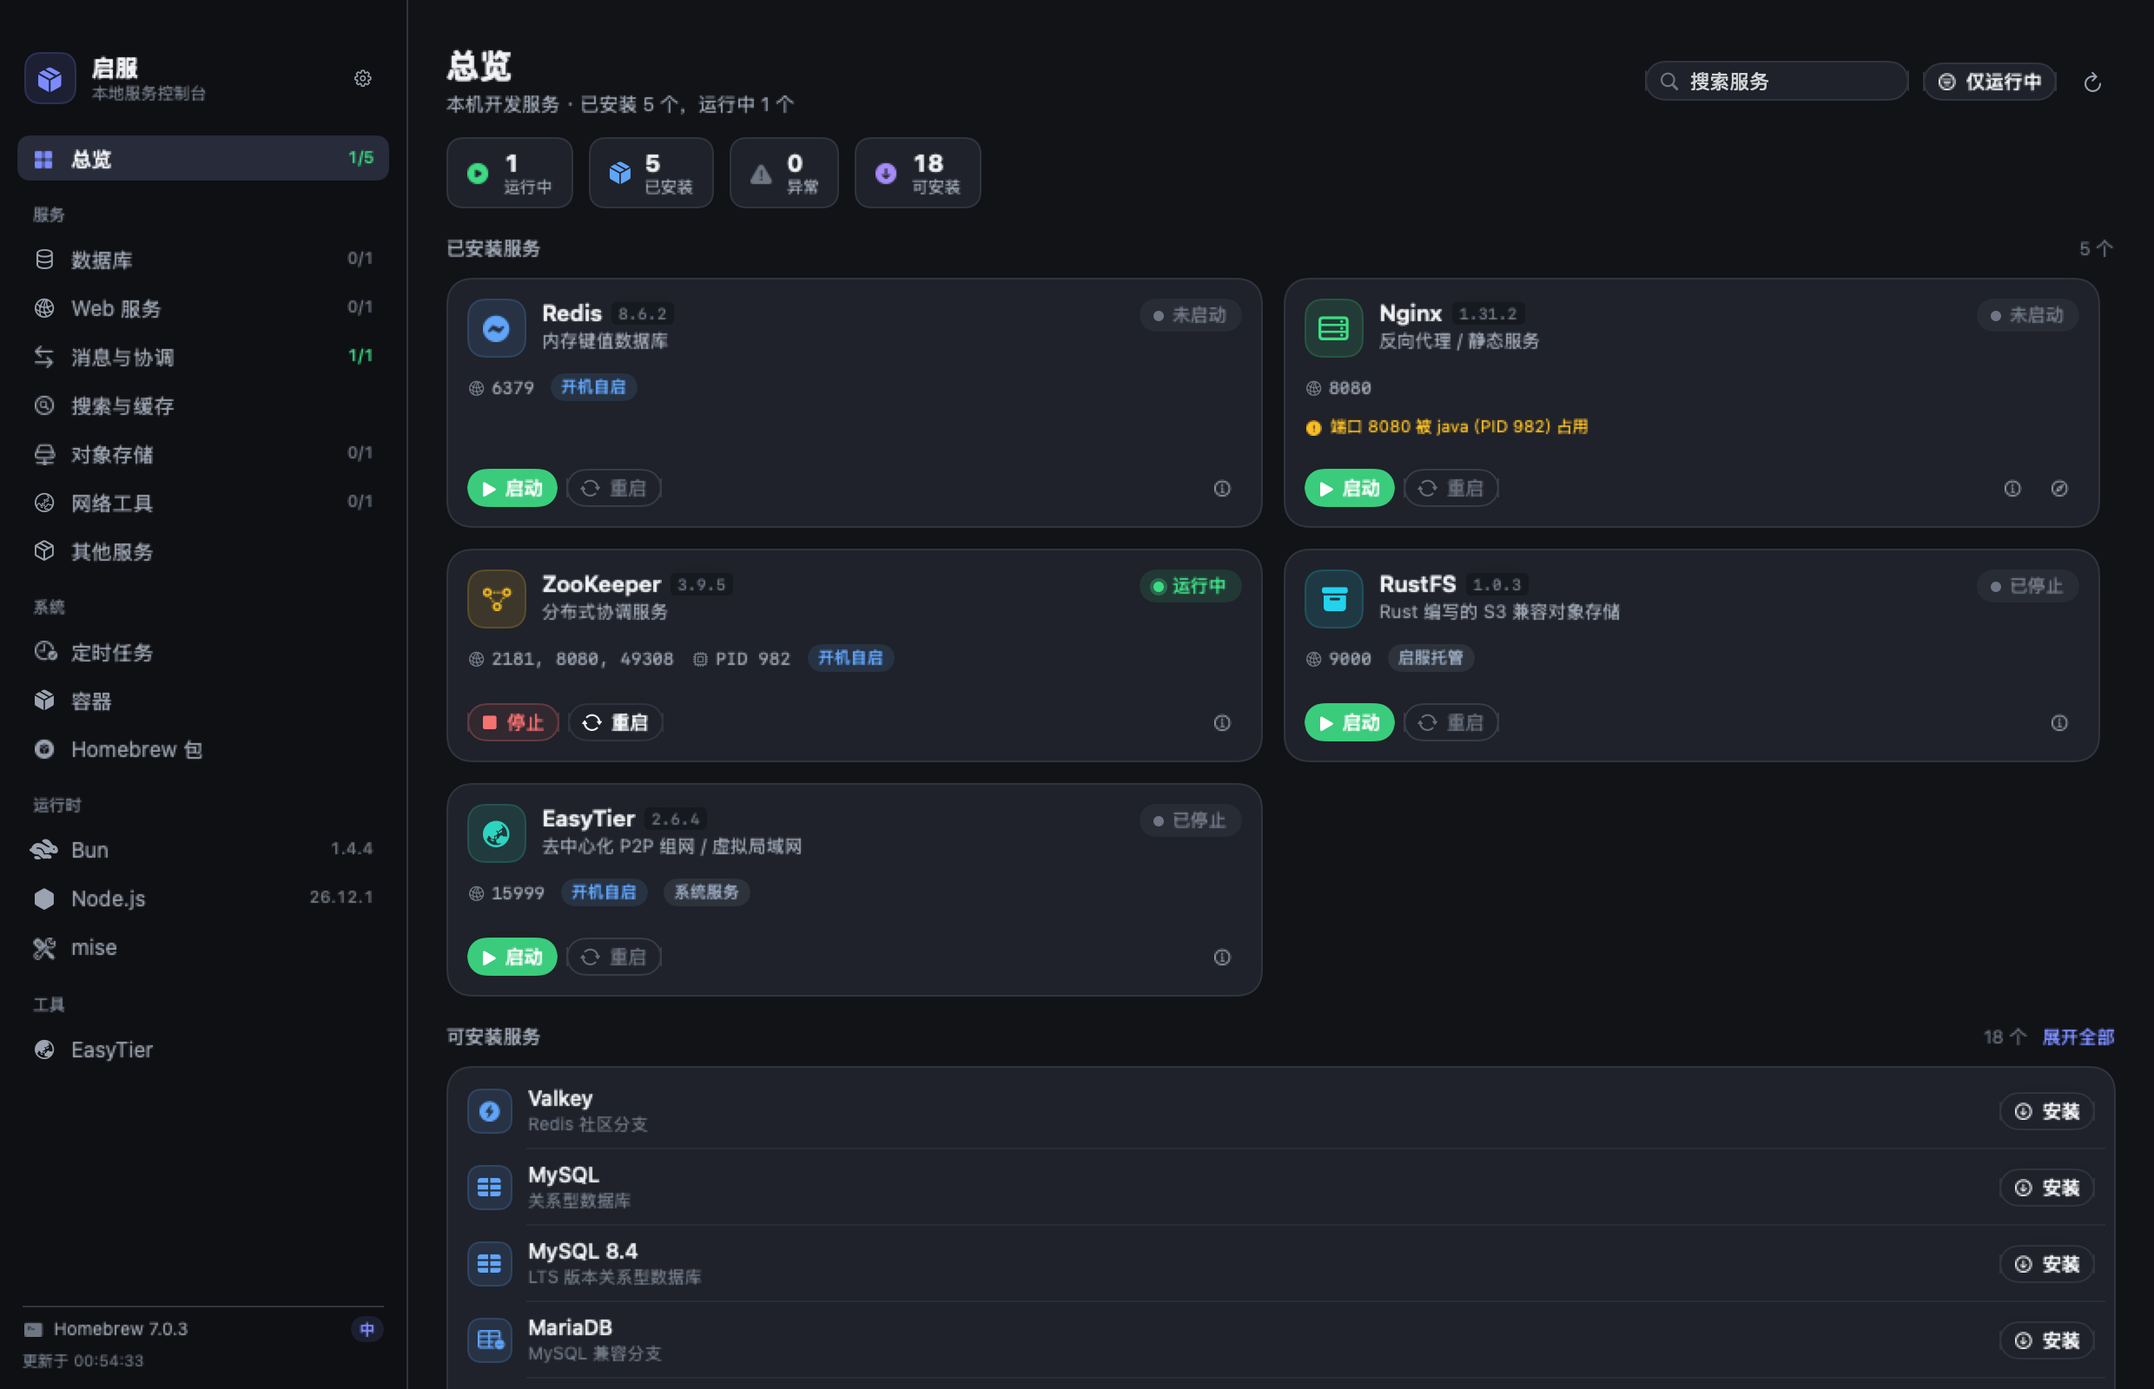
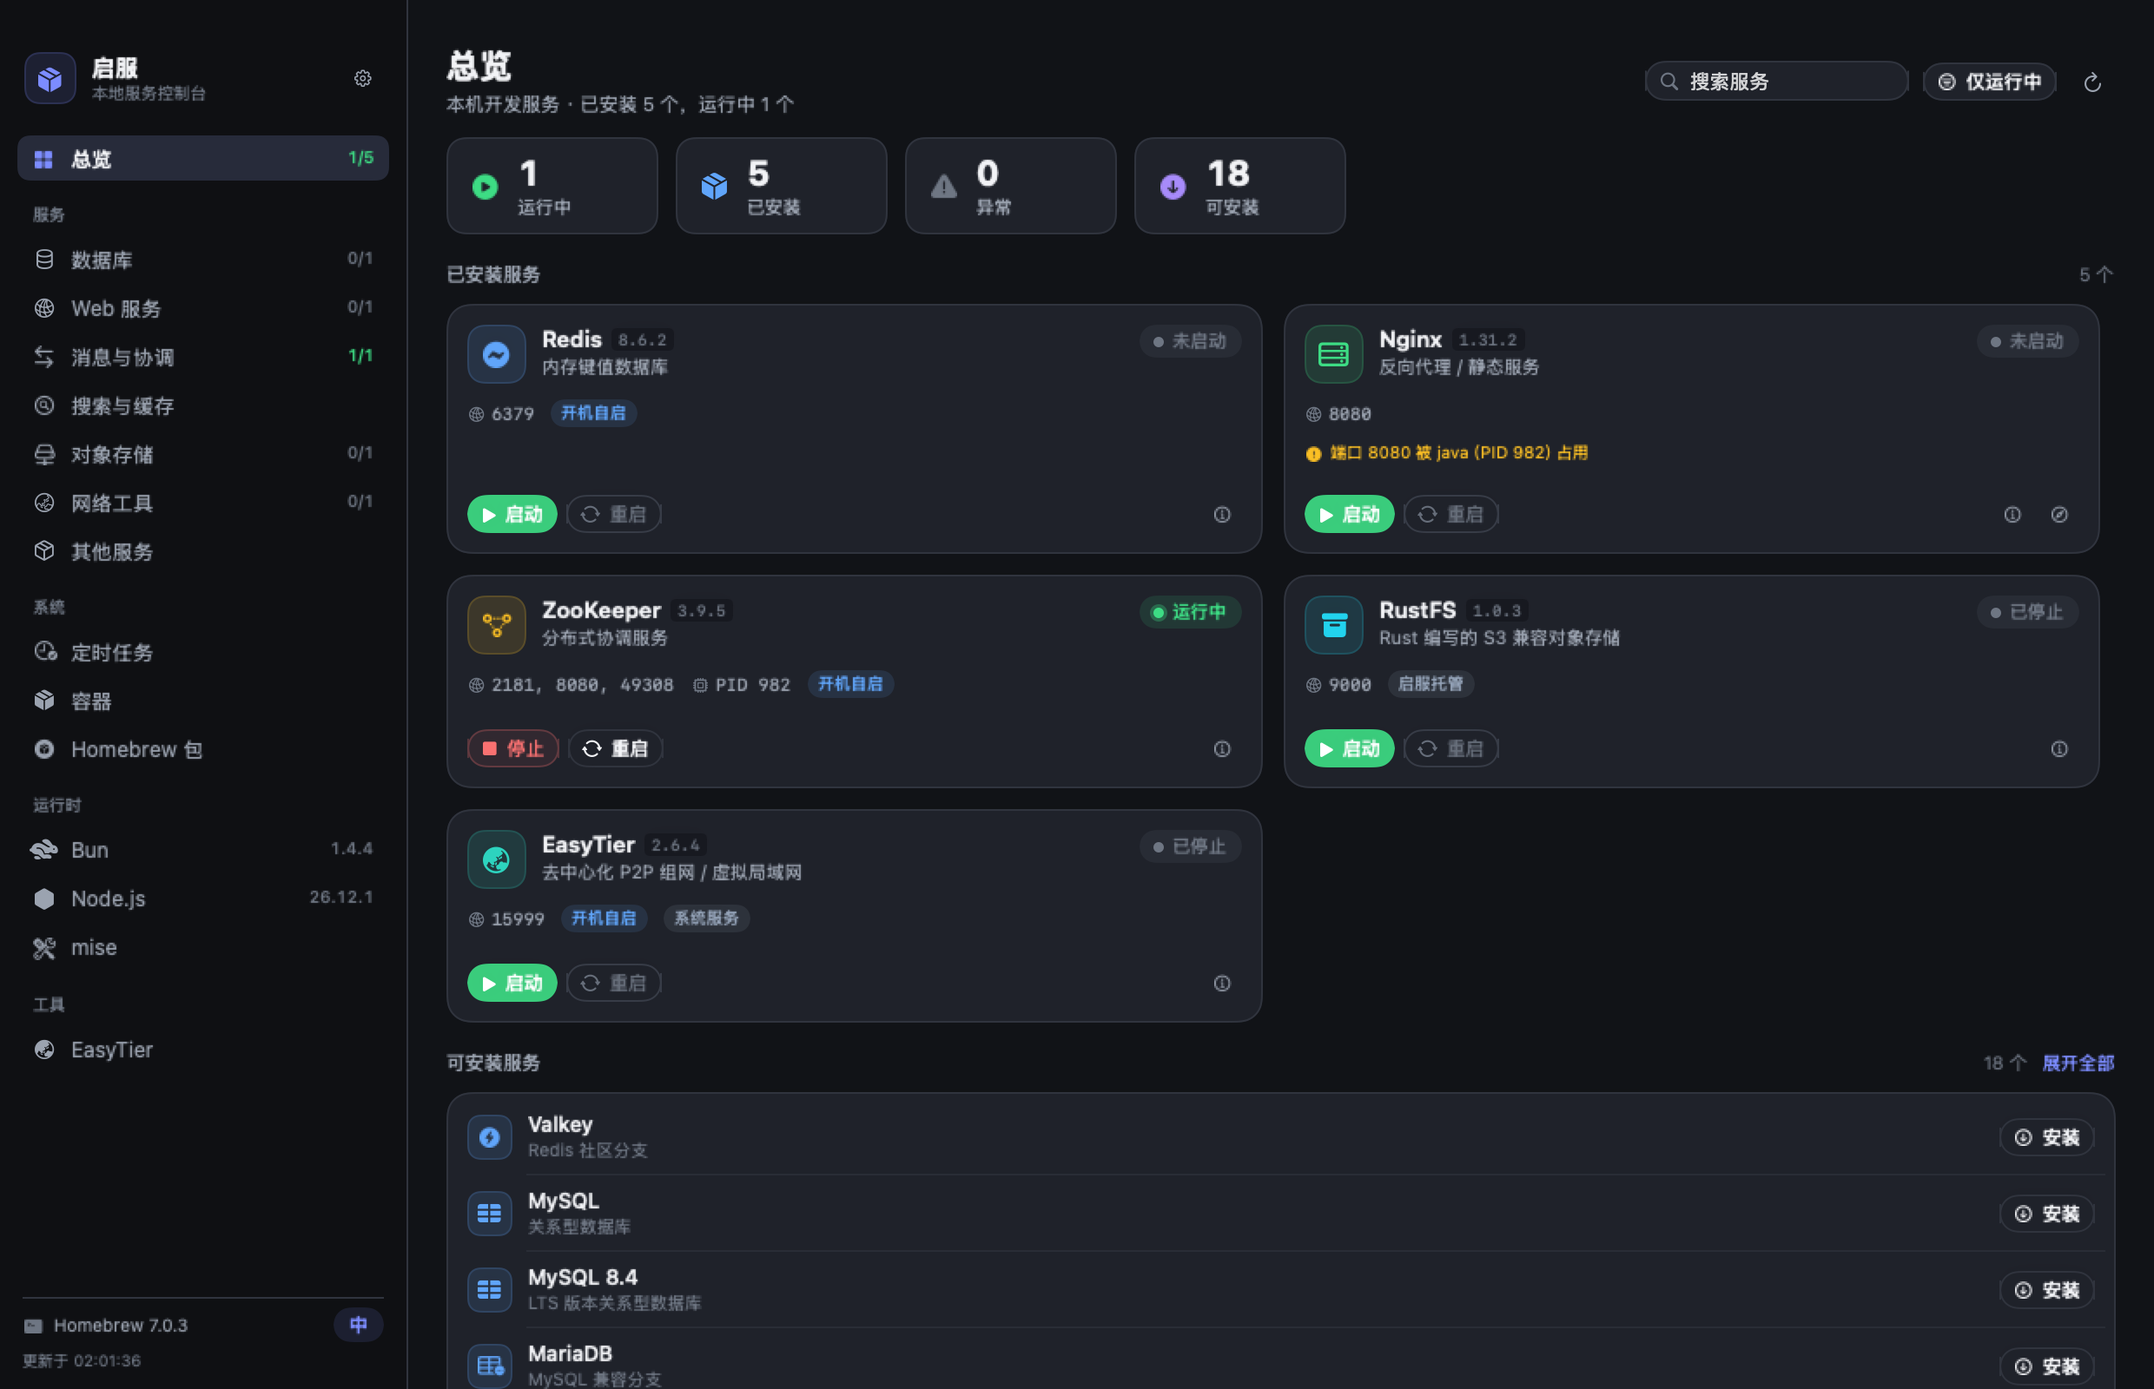
style(ui): bigger stat cards, silent refresh, legible language pill
- extract MetricPill into Components and use it from the overview and the
  timers page: value 14 -> 20pt, label 9.5 -> 10.5pt, icon 12 -> 14.5pt,
  padding 11x6 -> 14x9, radius 9 -> 11, minWidth 122 so the four cards
  line up instead of hugging their content
- drop the ProgressView from the sidebar footer: inserting it into the
  HStack pushed the language button sideways every 5 seconds, which read
  as the UI deforming. The manual refresh buttons in the dashboard and
  timers headers now spin instead (rotationEffect never affects layout),
  and the background poll stays completely silent
- IconButton gains `spinning`; stopping passes nil rather than .default so
  the icon does not rewind from 360 to 0 and look stuck
- language pill 9 -> 11pt with 7x3 padding plus a min width, so 中 and EN
  occupy the same slot and the footer does not jump on switch
- regenerate the screenshots that contain the stat row
- docs: pitfall 33 on layout-stable loading indicators

diff --git a/Sources/Views/TimersView.swift b/Sources/Views/TimersView.swift
@@ -4,6 +4,8 @@ struct TimersView: View {
     @EnvironmentObject var model: AppModel
 
     @State private var logText = ""
+    /// 手动刷新时按钮自己转圈；6 秒自动轮询保持静默
+    @State private var manualRefreshing = false
     private let tick = Timer.publish(every: 6, on: .main, in: .common).autoconnect()
 
     var body: some View {
@@ -47,10 +49,15 @@ struct TimersView: View {
             }
             Spacer(minLength: 12)
             SearchField(text: $model.searchText, placeholder: "搜索任务")
-            IconButton(systemImage: "arrow.clockwise", size: 26, help: "刷新（⌘R）") {
-                Task {
+            IconButton(systemImage: "arrow.clockwise", size: 26, help: "刷新（⌘R）",
+                       spinning: manualRefreshing) {
+                guard !manualRefreshing else { return }
+                manualRefreshing = true
+                Task { @MainActor in
                     await model.loadTimers()
                     await model.refresh(showSpinner: false)
+                    try? await Task.sleep(nanoseconds: 450_000_000)
+                    manualRefreshing = false
                 }
             }
         }
@@ -78,13 +85,16 @@ struct TimersView: View {
 
     private var statsRow: some View {
         VStack(alignment: .leading, spacing: 10) {
-            HStack(spacing: 9) {
-                metric(L.t("定时触发"), "\(model.timers.jobs.filter { $0.isTimed }.count)", Theme.purple, "calendar.badge.clock")
-                metric(L.t("运行中"), "\(model.timerRunningCount)", Theme.green, "play.circle.fill")
-                metric(L.t("异常"), "\(model.timerProblemCount)",
-                       model.timerProblemCount > 0 ? Theme.red : Theme.textTertiary,
-                       "exclamationmark.triangle.fill")
-                metric(L.t("cron"), "\(model.timers.cron.count)", Theme.blue, "terminal.fill")
+            HStack(spacing: 10) {
+                MetricPill(label: L.t("定时触发"), value: "\(model.timers.jobs.filter { $0.isTimed }.count)",
+                           tint: Theme.purple, symbol: "calendar.badge.clock")
+                MetricPill(label: L.t("运行中"), value: "\(model.timerRunningCount)",
+                           tint: Theme.green, symbol: "play.circle.fill")
+                MetricPill(label: L.t("异常"), value: "\(model.timerProblemCount)",
+                           tint: model.timerProblemCount > 0 ? Theme.red : Theme.textTertiary,
+                           symbol: "exclamationmark.triangle.fill")
+                MetricPill(label: L.t("cron"), value: "\(model.timers.cron.count)",
+                           tint: Theme.blue, symbol: "terminal.fill")
                 Spacer(minLength: 0)
             }
             filterRow
@@ -115,27 +125,6 @@ struct TimersView: View {
         }
         .padding(3)
         .background(RoundedRectangle(cornerRadius: 9, style: .continuous).fill(Theme.cardSoft))
-    }
-
-    private func metric(_ label: String, _ value: String, _ tint: Color, _ symbol: String) -> some View {
-        HStack(spacing: 7) {
-            Image(systemName: symbol)
-                .font(.system(size: 12, weight: .medium))
-                .foregroundStyle(tint)
-            VStack(alignment: .leading, spacing: 0) {
-                Text(value)
-                    .font(.system(size: 14, weight: .bold))
-                    .monospacedDigit()
-                    .foregroundStyle(Theme.textPrimary)
-                Text(label)
-                    .font(.system(size: 9.5))
-                    .foregroundStyle(Theme.textSecondary)
-            }
-        }
-        .padding(.horizontal, 11)
-        .padding(.vertical, 6)
-        .background(RoundedRectangle(cornerRadius: 9, style: .continuous).fill(Theme.card))
-        .overlay(RoundedRectangle(cornerRadius: 9, style: .continuous).strokeBorder(Theme.border, lineWidth: 1))
     }
 
     // MARK: 列表

diff --git a/Sources/Views/DashboardView.swift b/Sources/Views/DashboardView.swift
@@ -5,6 +5,8 @@ struct DashboardView: View {
 
     @EnvironmentObject var model: AppModel
     @State private var showAllInstallable = false
+    /// 只反映「用户点刷新」这一种情况；后台 5 秒轮询保持静默，不让人以为界面在抽动
+    @State private var manualRefreshing = false
 
     private var title: String { scope?.title ?? L.t("总览") }
 
@@ -56,13 +58,25 @@ struct DashboardView: View {
             ) {
                 model.showOnlyRunning.toggle()
             }
-            IconButton(systemImage: "arrow.clockwise", size: 26, help: "刷新（⌘R）") {
-                Task { await model.refresh(runtimes: true) }
+            IconButton(systemImage: "arrow.clockwise", size: 26, help: "刷新（⌘R）",
+                       spinning: manualRefreshing) {
+                manualRefresh()
             }
         }
         .padding(.horizontal, Metrics.pagePadding)
         .padding(.top, 26)
         .padding(.bottom, 12)
+    }
+
+    /// 手动刷新：转圈画在按钮自己身上，至少转半秒，避免刚好撞上轮询时闪一下
+    private func manualRefresh() {
+        guard !manualRefreshing else { return }
+        manualRefreshing = true
+        Task { @MainActor in
+            await model.refresh(runtimes: true)
+            try? await Task.sleep(nanoseconds: 450_000_000)
+            manualRefreshing = false
+        }
     }
 
     private var hintRow: some View {
@@ -85,34 +99,15 @@ struct DashboardView: View {
     private var installableCount: Int { scopeItems.filter { !$0.installed }.count }
 
     private var statsRow: some View {
-        HStack(spacing: 9) {
-            metric(L.t("运行中"), "\(runningCount)", Theme.green, "play.circle.fill")
-            metric(L.t("已安装"), "\(installedCount)", Theme.blue, "shippingbox.fill")
-            metric(L.t("异常"), "\(problemCount)", problemCount > 0 ? Theme.red : Theme.textTertiary, "exclamationmark.triangle.fill")
-            metric(L.t("可安装"), "\(installableCount)", Theme.purple, "arrow.down.circle.fill")
+        HStack(spacing: 10) {
+            MetricPill(label: L.t("运行中"), value: "\(runningCount)", tint: Theme.green, symbol: "play.circle.fill")
+            MetricPill(label: L.t("已安装"), value: "\(installedCount)", tint: Theme.blue, symbol: "shippingbox.fill")
+            MetricPill(label: L.t("异常"), value: "\(problemCount)",
+                       tint: problemCount > 0 ? Theme.red : Theme.textTertiary,
+                       symbol: "exclamationmark.triangle.fill")
+            MetricPill(label: L.t("可安装"), value: "\(installableCount)", tint: Theme.purple, symbol: "arrow.down.circle.fill")
             Spacer(minLength: 0)
         }
-    }
-
-    private func metric(_ label: String, _ value: String, _ tint: Color, _ symbol: String) -> some View {
-        HStack(spacing: 7) {
-            Image(systemName: symbol)
-                .font(.system(size: 12, weight: .medium))
-                .foregroundStyle(tint)
-            VStack(alignment: .leading, spacing: 0) {
-                Text(value)
-                    .font(.system(size: 14, weight: .bold))
-                    .monospacedDigit()
-                    .foregroundStyle(Theme.textPrimary)
-                Text(label)
-                    .font(.system(size: 9.5))
-                    .foregroundStyle(Theme.textSecondary)
-            }
-        }
-        .padding(.horizontal, 11)
-        .padding(.vertical, 6)
-        .background(RoundedRectangle(cornerRadius: 9, style: .continuous).fill(Theme.card))
-        .overlay(RoundedRectangle(cornerRadius: 9, style: .continuous).strokeBorder(Theme.border, lineWidth: 1))
     }
 
     // MARK: 服务卡片

diff --git a/Sources/Views/Components.swift b/Sources/Views/Components.swift
@@ -161,12 +161,47 @@ struct PillButton: View {
     }
 }
 
+/// 顶部统计卡（概览 / 定时任务共用同一尺寸，避免两边各写一份慢慢走偏）
+struct MetricPill: View {
+    var label: String
+    var value: String
+    var tint: Color
+    var symbol: String
+
+    var body: some View {
+        HStack(spacing: 10) {
+            Image(systemName: symbol)
+                .font(.system(size: 14.5, weight: .medium))
+                .foregroundStyle(tint)
+                .frame(width: 17)
+            VStack(alignment: .leading, spacing: 1) {
+                Text(value)
+                    .font(.system(size: 20, weight: .bold))
+                    .monospacedDigit()
+                    .foregroundStyle(Theme.textPrimary)
+                Text(label)
+                    .font(.system(size: 10.5, weight: .medium))
+                    .foregroundStyle(Theme.textSecondary)
+                    .lineLimit(1)
+                    .fixedSize(horizontal: true, vertical: false)
+            }
+        }
+        .padding(.horizontal, 14)
+        .padding(.vertical, 9)
+        .frame(minWidth: 122, alignment: .leading)
+        .background(RoundedRectangle(cornerRadius: 11, style: .continuous).fill(Theme.card))
+        .overlay(RoundedRectangle(cornerRadius: 11, style: .continuous).strokeBorder(Theme.border, lineWidth: 1))
+    }
+}
+
 /// 纯图标圆形按钮
 struct IconButton: View {
     var systemImage: String
     var tint: Color = Theme.textSecondary
     var size: CGFloat = 26
     var help: String?
+    /// 转圈：把「正在刷新」画在按钮上，不额外占位，也不改动任何布局
+    var spinning: Bool = false
     var action: () -> Void
 
     @State private var hovering = false
@@ -176,6 +211,10 @@ struct IconButton: View {
             Image(systemName: systemImage)
                 .font(.system(size: size * 0.42, weight: .medium))
                 .foregroundStyle(hovering ? tint : Theme.textSecondary)
+                .rotationEffect(.degrees(spinning ? 360 : 0))
+                // 停下时不给动画，直接归位；否则会从 360° 反向转回 0°，看着像卡了一下
+                .animation(spinning ? .linear(duration: 1.1).repeatForever(autoreverses: false) : nil,
+                           value: spinning)
                 .frame(width: size, height: size)
                 .background(
                     Circle().fill(hovering ? tint.opacity(0.12) : Color.clear)

diff --git a/Sources/Views/RootView.swift b/Sources/Views/RootView.swift
@@ -179,12 +179,6 @@ struct SidebarView: View {
                     updateBadge
                 }
                 langButton
-                if model.isRefreshing {
-                    ProgressView()
-                        .controlSize(.mini)
-                        .scaleEffect(0.6)
-                        .frame(width: 10, height: 10)
-                }
             }
             Text(model.lastRefresh.map { L.t("更新于 %@", TimeText.clock($0)) } ?? L.t("等待首次刷新"))
                 .font(.system(size: 9))
@@ -202,13 +196,13 @@ struct SidebarView: View {
         } label: {
             HStack(spacing: 3) {
                 Image(systemName: "arrow.down.circle.fill")
-                    .font(.system(size: 8.5, weight: .bold))
-                Text(model.update.latest)
                     .font(.system(size: 9, weight: .bold))
+                Text(model.update.latest)
+                    .font(.system(size: 10, weight: .bold))
             }
             .foregroundStyle(Theme.amber)
-            .padding(.horizontal, 5)
-            .padding(.vertical, 2)
+            .padding(.horizontal, 6)
+            .padding(.vertical, 2.5)
             .background(Capsule().fill(Theme.amber.opacity(0.14)))
         }
         .buttonStyle(.plain)
@@ -223,10 +217,11 @@ struct SidebarView: View {
             }
         } label: {
             Text(model.lang.badge)
-                .font(.system(size: 9, weight: .bold))
+                .font(.system(size: 11, weight: .bold))
                 .foregroundStyle(Theme.accent)
-                .padding(.horizontal, 5)
-                .padding(.vertical, 2)
+                .frame(minWidth: 15)
+                .padding(.horizontal, 7)
+                .padding(.vertical, 3)
                 .background(Capsule().fill(Theme.accent.opacity(0.12)))
         }
         .buttonStyle(.plain)

diff --git a/README.en.md b/README.en.md
@@ -402,6 +402,7 @@ $BIN --mise-activate [fish|zsh|bash]              # write mise activate into the
 30. **Self-update must not unconditionally replace itself**: clicking "Download & Install" from `build/ServDock.app` would wipe the build output directory. The gate is `canSelfInstall` (path not under `build/` **and** the parent directory writable), otherwise the button degrades to "Open Releases".
 31. **The version must be injected from the tag**: if the tag says `v0.3.0` but Info.plist still says `0.2.0`, the app considers itself outdated forever — it compares against the bundle version. `build.sh` writes `SERVDOCK_VERSION` / `SERVDOCK_BUILD` into Info.plist before signing, and CI `test`s the result.
 32. **The GitHub App connector cannot create repositories**: `POST /user/repos` returns `403 Resource not accessible by integration` (the App only holds the permissions it was granted). Creating repos and releases has to go through the web UI or `gh`; the App token will not do it.
+33. **Never put a refresh indicator inside an `HStack`**: adding `if isRefreshing { ProgressView() }` to the sidebar footer shoves the language button aside and reads as the UI twitching. Draw "refreshing" on the refresh button itself instead (`rotationEffect` + `repeatForever`) — rotation never participates in layout. Pass `nil` rather than `.default` when it stops, otherwise the icon spins backwards from 360° and looks stuck. And do not wire it to the background poll: a 5-second cycle would leave the icon spinning forever, so only manual triggers animate.
 
 ## Known limitations
 

diff --git a/README.md b/README.md
@@ -400,6 +400,7 @@ $BIN --mise-activate [fish|zsh|bash]              # 把 mise activate 写进 she
 30. **自更新不能无条件替换自己**：在 `build/ServDock.app` 里点「下载并安装」会把编译产物目录删掉。判据是 `canSelfInstall`（路径不以 `build/` 结尾 **且** 父目录对当前用户可写），不满足时按钮退化成「打开发布页」。
 31. **版本号必须由 tag 注入**：tag 打了 `v0.3.0` 而 Info.plist 还是 `0.2.0`，应用就会永远认为「有新版本」——比较的是 bundle 里的版本。`build.sh` 用 `SERVDOCK_VERSION` / `SERVDOCK_BUILD` 在签名前写入 Info.plist，CI 里还会 `test` 一遍防呆。
 32. **GitHub App 连接器建不了仓库**：`POST /user/repos` 返回 `403 Resource not accessible by integration`（App 只拿到被授予的权限），建仓库 / 建 Release 得走网页或 `gh`，别指望 App token。
+33. **刷新指示器不要塞进 `HStack`**：侧栏底部 `if isRefreshing { ProgressView() }` 一出现就把旁边的语言按钮挤走，肉眼看像界面在抽搐。改法是把「正在刷新」画在刷新按钮自己身上（`rotationEffect` + `repeatForever`），旋转不参与布局计算；停止时动画给 `nil` 而不是 `.default`，否则会从 360° 反向转回 0° 像卡了一下。另外别把后台轮询也接上去——5 秒一轮会让图标一直在转，只给手动触发加转圈。
 
 ## 已知限制
 
